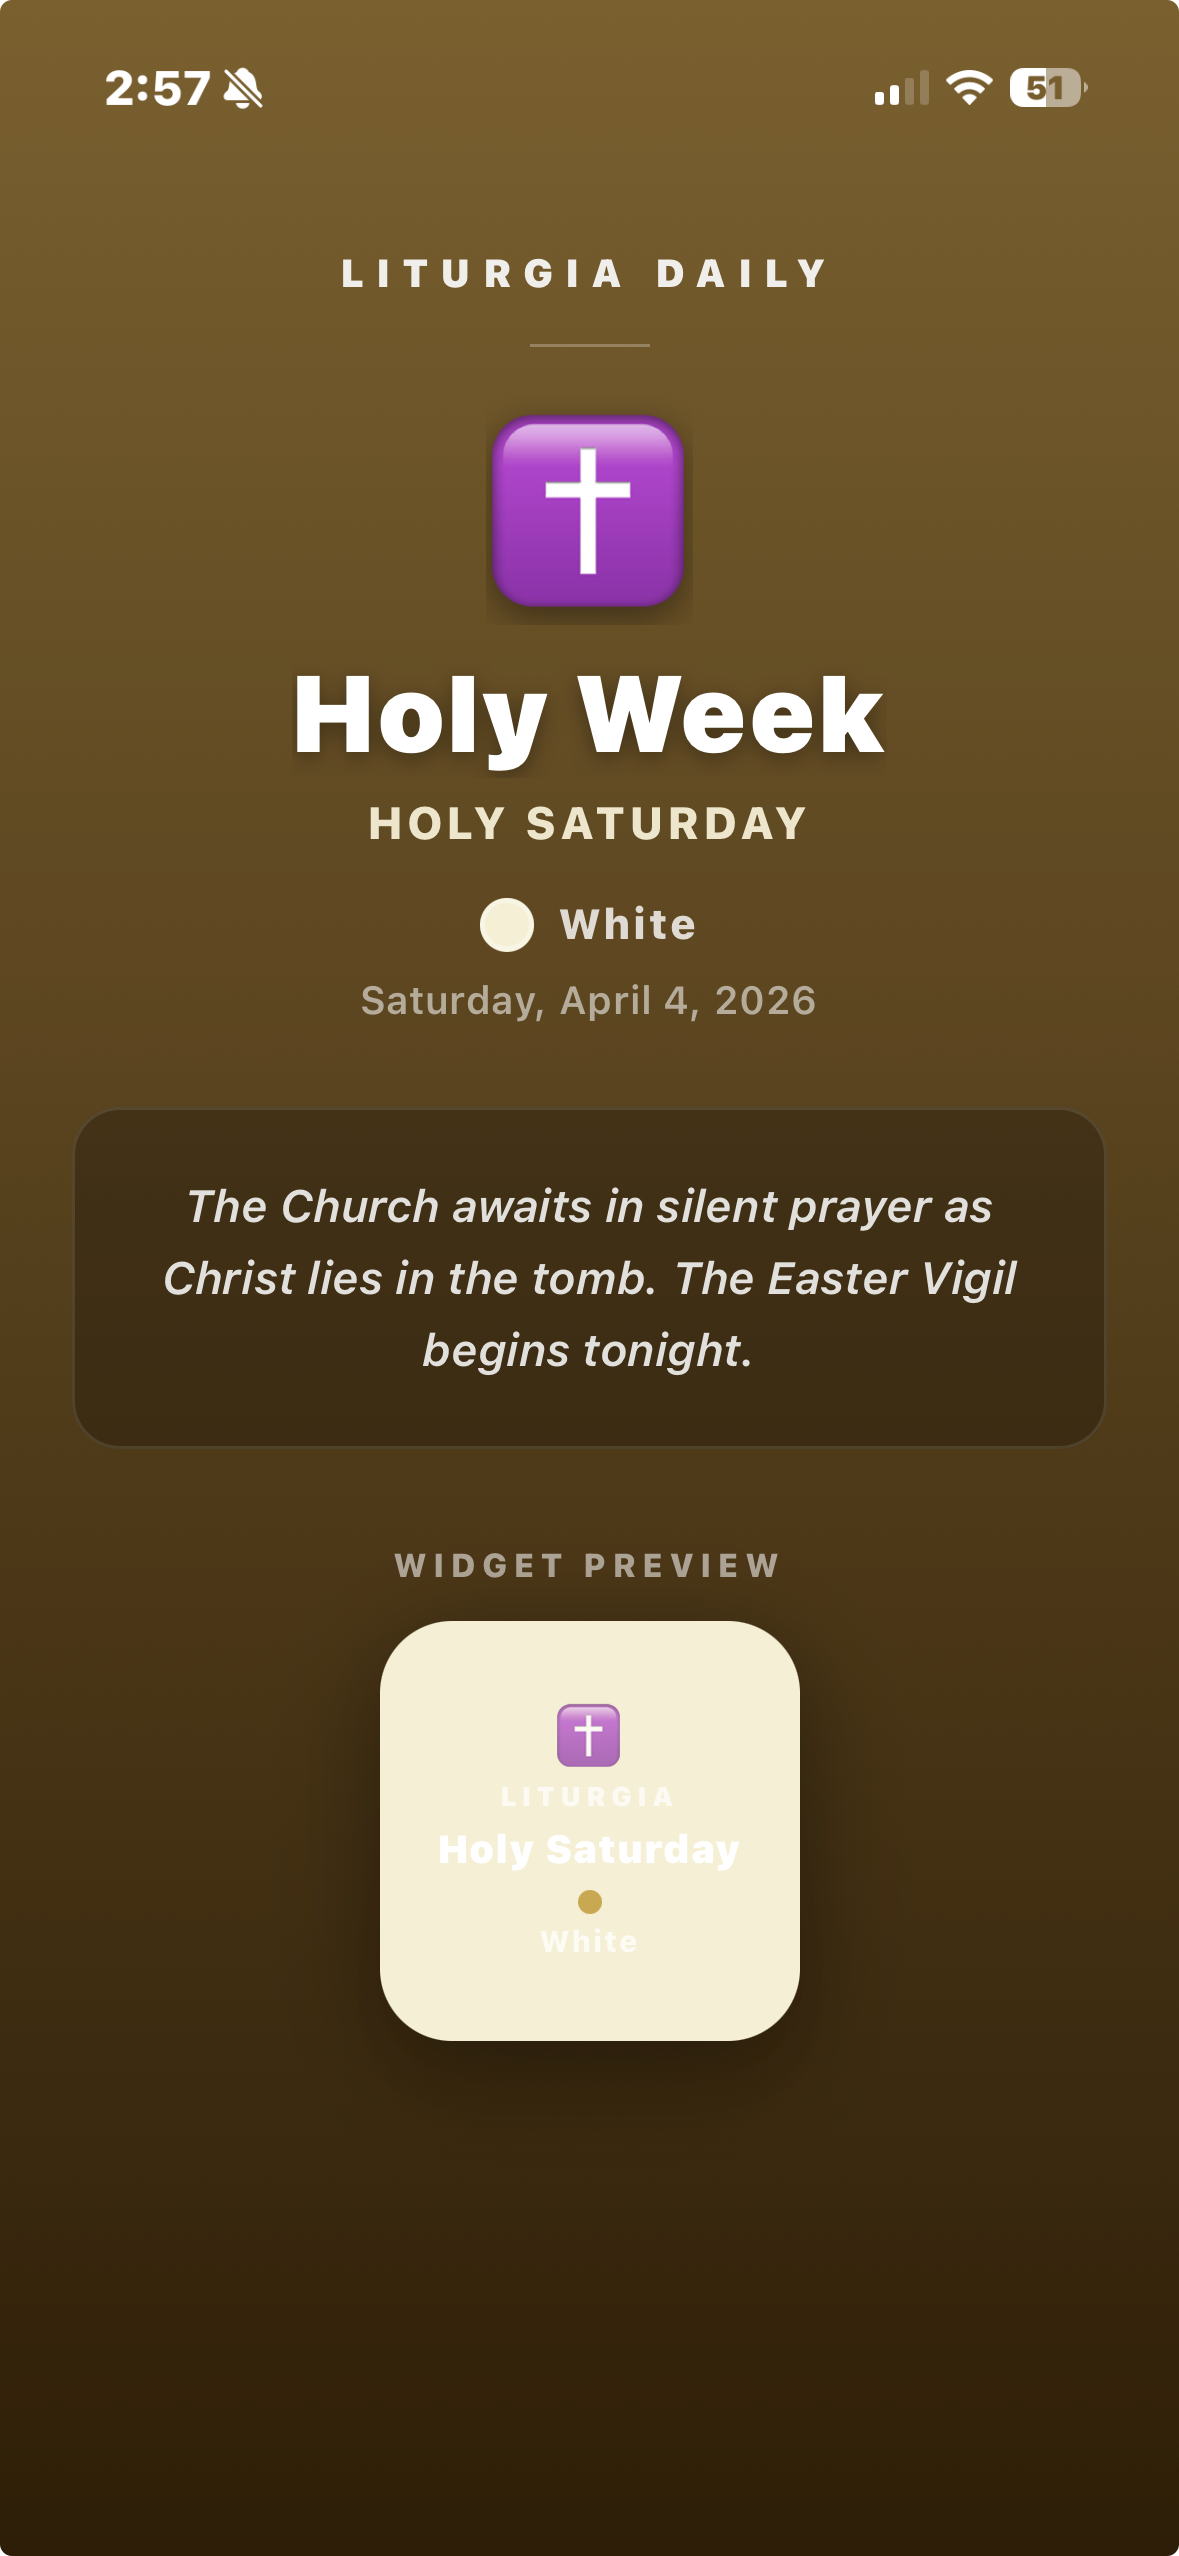
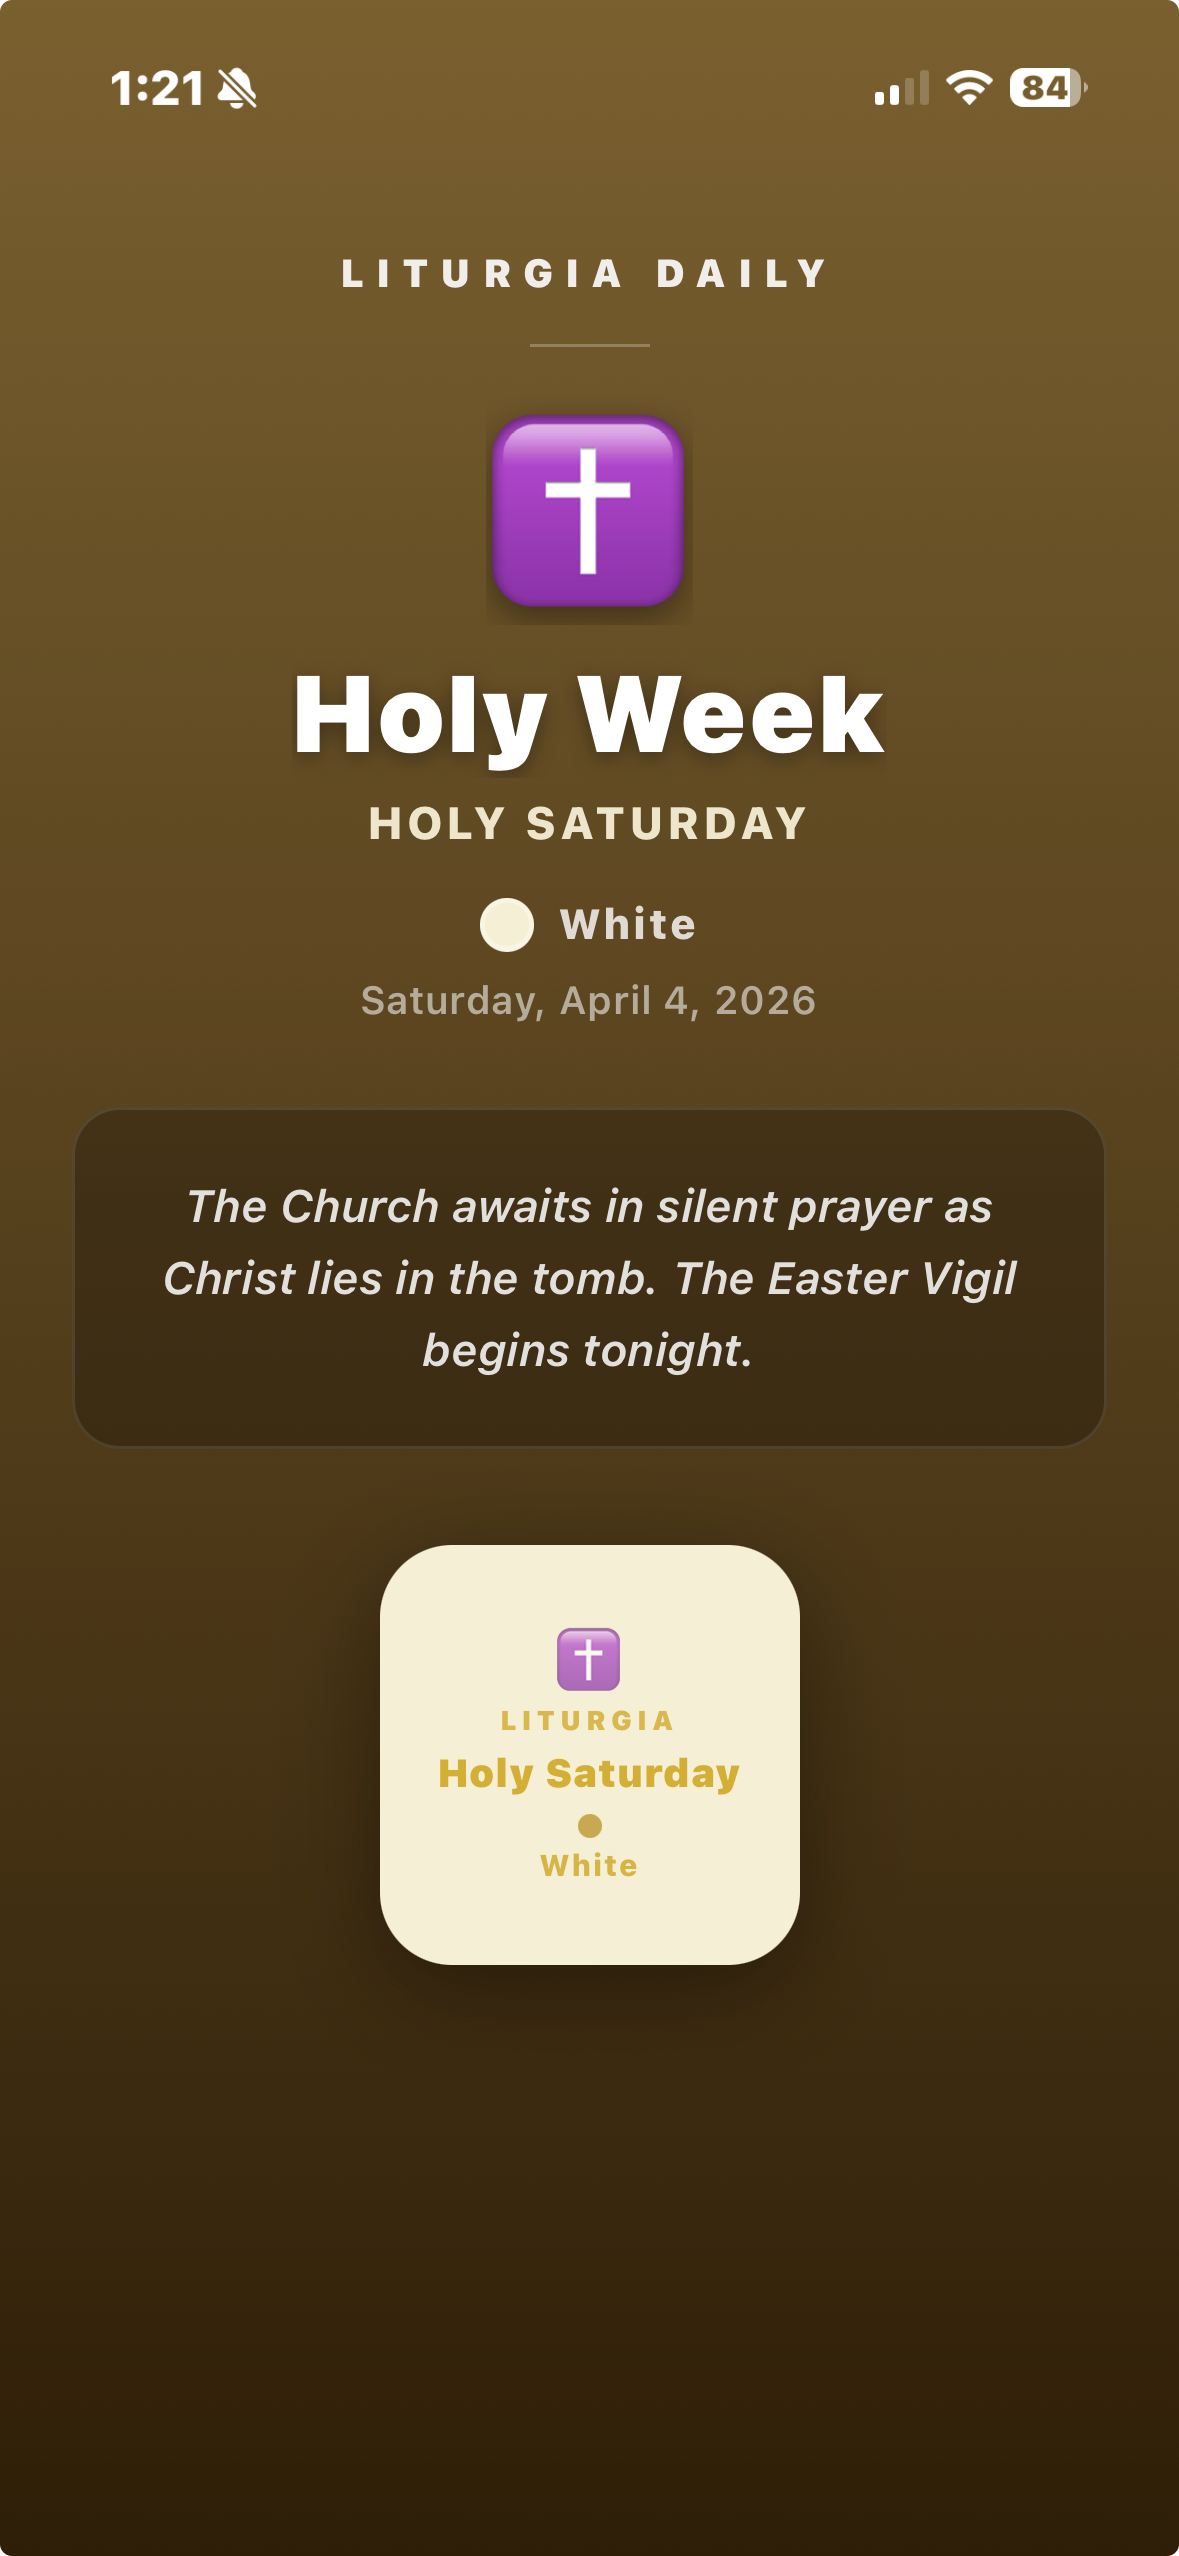
Added HTML and CSS to allow for web deployment

Changed region(s): [[0.3053, 0.5872, 0.7023, 0.8036], [0.0916, 0.0309, 0.2137, 0.0618], [0.855, 0.0309, 0.916, 0.0618]]

diff --git a/styles.css b/styles.css
@@ -1,0 +1,283 @@
+:root {
+  --bg-1: #2a1603;
+  --bg-2: #6e4b17;
+  --bg-3: #8a6a32;
+  --glass: rgba(20, 12, 6, 0.56);
+  --text-primary: #f4efe6;
+  --text-secondary: #ded2bf;
+  --text-muted: #c2b49b;
+  --card: #e8e1c9;
+  --card-accent: #cfad42;
+  --shadow-strong: 0 30px 60px rgba(0, 0, 0, 0.35);
+  --shadow-soft: 0 16px 36px rgba(0, 0, 0, 0.2);
+}
+
+* {
+  box-sizing: border-box;
+}
+
+html,
+body {
+  margin: 0;
+  min-height: 100%;
+}
+
+body {
+  font-family: "Inter", "Segoe UI", sans-serif;
+  color: var(--text-primary);
+  background:
+    radial-gradient(circle at 15% 15%, rgba(255, 220, 145, 0.18), transparent 40%),
+    radial-gradient(circle at 85% 20%, rgba(255, 194, 102, 0.14), transparent 34%),
+    linear-gradient(150deg, var(--bg-1) 0%, var(--bg-2) 52%, var(--bg-3) 100%);
+  background-attachment: fixed;
+}
+
+.page-shell {
+  position: relative;
+  max-width: 820px;
+  margin: 0 auto;
+  min-height: 100vh;
+  padding: 72px 24px 60px;
+  display: grid;
+  gap: 34px;
+}
+
+.page-shell::before,
+.page-shell::after {
+  content: "";
+  position: absolute;
+  border-radius: 999px;
+  filter: blur(40px);
+  z-index: -1;
+}
+
+.page-shell::before {
+  width: 280px;
+  height: 280px;
+  right: -80px;
+  top: 120px;
+  background: rgba(255, 212, 134, 0.18);
+}
+
+.page-shell::after {
+  width: 240px;
+  height: 240px;
+  left: -100px;
+  bottom: 100px;
+  background: rgba(62, 28, 2, 0.28);
+}
+
+.brand {
+  text-align: center;
+}
+
+.brand-kicker {
+  margin: 0;
+  font-family: "Cinzel", Georgia, serif;
+  font-size: 1.6rem;
+  letter-spacing: 0.55rem;
+  font-weight: 700;
+}
+
+.brand-rule {
+  width: 82px;
+  height: 2px;
+  margin: 16px auto 0;
+  background: rgba(247, 238, 220, 0.45);
+}
+
+.hero {
+  text-align: center;
+}
+
+.app-icon {
+  width: 124px;
+  height: 124px;
+  margin: 0 auto 18px;
+  display: grid;
+  place-items: center;
+  font-size: 4.5rem;
+  line-height: 1;
+  border-radius: 26px;
+  background: linear-gradient(180deg, #cb6fe7, #9f32ca);
+  box-shadow:
+    inset 0 2px 8px rgba(255, 255, 255, 0.35),
+    0 18px 24px rgba(0, 0, 0, 0.26);
+}
+
+.hero h1 {
+  margin: 0;
+  font-size: clamp(2.6rem, 7vw, 4.5rem);
+  font-weight: 800;
+  letter-spacing: 0.01em;
+  text-shadow: 0 4px 14px rgba(0, 0, 0, 0.4);
+}
+
+.hero h2 {
+  margin: 8px 0 14px;
+  font-family: "Cinzel", Georgia, serif;
+  font-size: clamp(1.3rem, 4.2vw, 2.05rem);
+  letter-spacing: 0.17em;
+  text-transform: uppercase;
+  color: var(--text-secondary);
+}
+
+.color-line {
+  margin: 0;
+  display: flex;
+  justify-content: center;
+  align-items: center;
+  gap: 12px;
+  font-size: clamp(1.5rem, 4.5vw, 2.2rem);
+  font-weight: 700;
+}
+
+.color-dot {
+  width: 26px;
+  height: 26px;
+  border-radius: 50%;
+  background: #f8f6eb;
+  box-shadow: inset 0 0 0 2px rgba(94, 73, 38, 0.2);
+}
+
+.date {
+  margin: 14px 0 0;
+  color: var(--text-muted);
+  font-size: clamp(1rem, 2.7vw, 1.5rem);
+  font-weight: 600;
+  letter-spacing: 0.01em;
+}
+
+.reflection {
+  padding: 38px 28px;
+  border-radius: 28px;
+  background: linear-gradient(110deg, rgba(20, 12, 6, 0.68), var(--glass));
+  border: 1px solid rgba(247, 238, 220, 0.13);
+  box-shadow: var(--shadow-strong);
+}
+
+.reflection p {
+  margin: 0;
+  text-align: center;
+  font-style: italic;
+  font-weight: 700;
+  font-size: clamp(1.5rem, 4.1vw, 2.65rem);
+  line-height: 1.45;
+  color: #ece4d6;
+}
+
+.widget-area {
+  display: grid;
+  place-items: center;
+  margin-top: 8px;
+}
+
+.widget-card {
+  width: min(360px, 100%);
+  border-radius: 38px;
+  padding: 32px 24px 30px;
+  text-align: center;
+  background: var(--card);
+  color: #6f5a20;
+  box-shadow: var(--shadow-soft);
+}
+
+.widget-icon {
+  margin: 0;
+  font-size: 2.4rem;
+  line-height: 1;
+}
+
+.widget-brand {
+  margin: 8px 0 10px;
+  font-family: "Cinzel", Georgia, serif;
+  letter-spacing: 0.33rem;
+  font-size: 1.04rem;
+  font-weight: 700;
+  color: var(--card-accent);
+}
+
+.widget-card h3 {
+  margin: 0;
+  font-size: clamp(2rem, 5.8vw, 2.7rem);
+  font-weight: 800;
+  color: #c5a036;
+}
+
+.widget-color {
+  margin: 14px 0 0;
+  font-size: clamp(1.8rem, 4.9vw, 2.4rem);
+  font-weight: 700;
+  color: #c5a036;
+}
+
+.widget-color::before {
+  content: "•";
+  margin-right: 0.42rem;
+  color: #ceb05f;
+}
+
+.fade-in-up {
+  opacity: 0;
+  transform: translateY(22px);
+  animation: reveal 0.75s cubic-bezier(0.18, 0.72, 0.24, 1) forwards;
+}
+
+.delay-1 {
+  animation-delay: 0.08s;
+}
+
+.delay-2 {
+  animation-delay: 0.2s;
+}
+
+.delay-3 {
+  animation-delay: 0.34s;
+}
+
+.delay-4 {
+  animation-delay: 0.48s;
+}
+
+@keyframes reveal {
+  to {
+    opacity: 1;
+    transform: translateY(0);
+  }
+}
+
+@media (max-width: 740px) {
+  .page-shell {
+    padding: 56px 16px 38px;
+    gap: 24px;
+  }
+
+  .brand-kicker {
+    font-size: 1.12rem;
+    letter-spacing: 0.36rem;
+  }
+
+  .app-icon {
+    width: 98px;
+    height: 98px;
+    font-size: 3.6rem;
+    border-radius: 20px;
+  }
+
+  .reflection {
+    border-radius: 22px;
+    padding: 28px 18px;
+  }
+
+  .widget-card {
+    border-radius: 28px;
+  }
+}
+
+@media (prefers-reduced-motion: reduce) {
+  .fade-in-up {
+    opacity: 1;
+    transform: none;
+    animation: none;
+  }
+}

diff --git a/index.html b/index.html
@@ -1,0 +1,54 @@
+<!DOCTYPE html>
+<html lang="en">
+  <head>
+    <meta charset="UTF-8">
+    <meta name="viewport" content="width=device-width, initial-scale=1.0">
+    <title>Liturgia Daily</title>
+    <meta
+      name="description"
+      content="Liturgia Daily: daily liturgical color, observance, and reflection."
+    >
+    <link rel="preconnect" href="https://fonts.googleapis.com">
+    <link rel="preconnect" href="https://fonts.gstatic.com" crossorigin>
+    <link
+      href="https://fonts.googleapis.com/css2?family=Cinzel:wght@500;700&family=Inter:wght@400;600;700;800&display=swap"
+      rel="stylesheet"
+    >
+    <link rel="stylesheet" href="styles.css">
+  </head>
+  <body>
+    <main class="page-shell">
+      <header class="brand fade-in-up delay-1">
+        <p class="brand-kicker">LITURGIA DAILY</p>
+        <div class="brand-rule" aria-hidden="true"></div>
+      </header>
+
+      <section class="hero fade-in-up delay-2" aria-label="Daily liturgical summary">
+        <div class="app-icon" aria-hidden="true">✝</div>
+        <h1>Holy Week</h1>
+        <h2>Holy Saturday</h2>
+        <p class="color-line">
+          <span class="color-dot" aria-hidden="true"></span>
+          White
+        </p>
+        <p class="date">Saturday, April 4, 2026</p>
+      </section>
+
+      <section class="reflection fade-in-up delay-3" aria-label="Daily reflection">
+        <p>
+          The Church awaits in silent prayer as Christ lies in the tomb. The Easter
+          Vigil begins tonight.
+        </p>
+      </section>
+
+      <section class="widget-area fade-in-up delay-4" aria-label="Widget preview">
+        <article class="widget-card">
+          <p class="widget-icon" aria-hidden="true">✝</p>
+          <p class="widget-brand">LITURGIA</p>
+          <h3>Holy Saturday</h3>
+          <p class="widget-color">White</p>
+        </article>
+      </section>
+    </main>
+  </body>
+</html>
